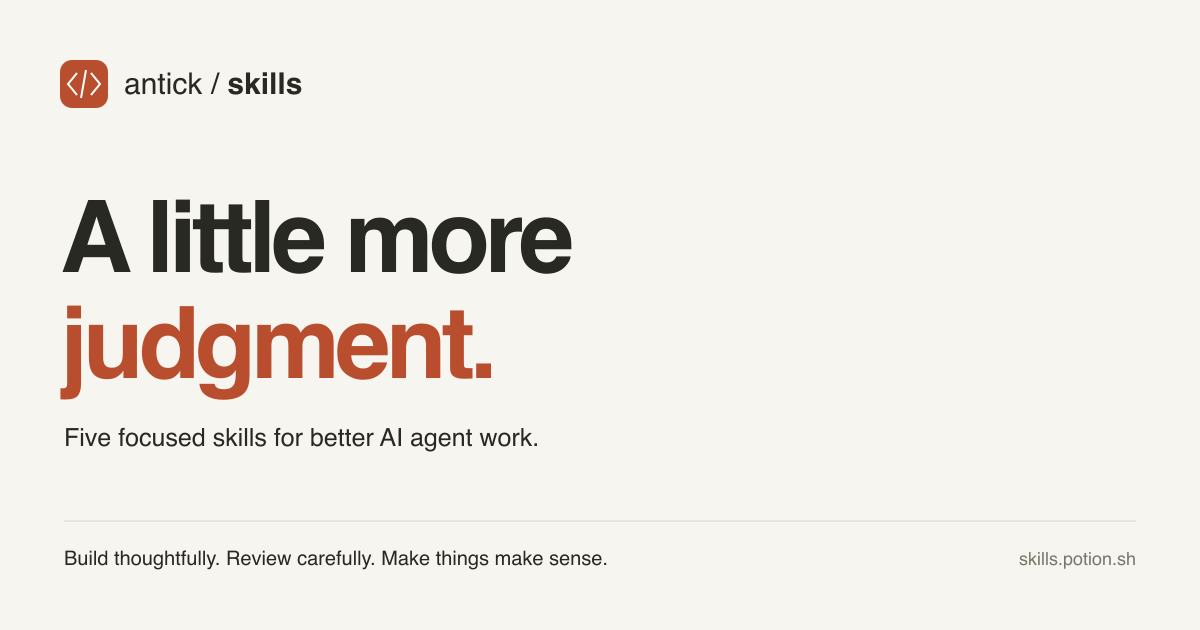
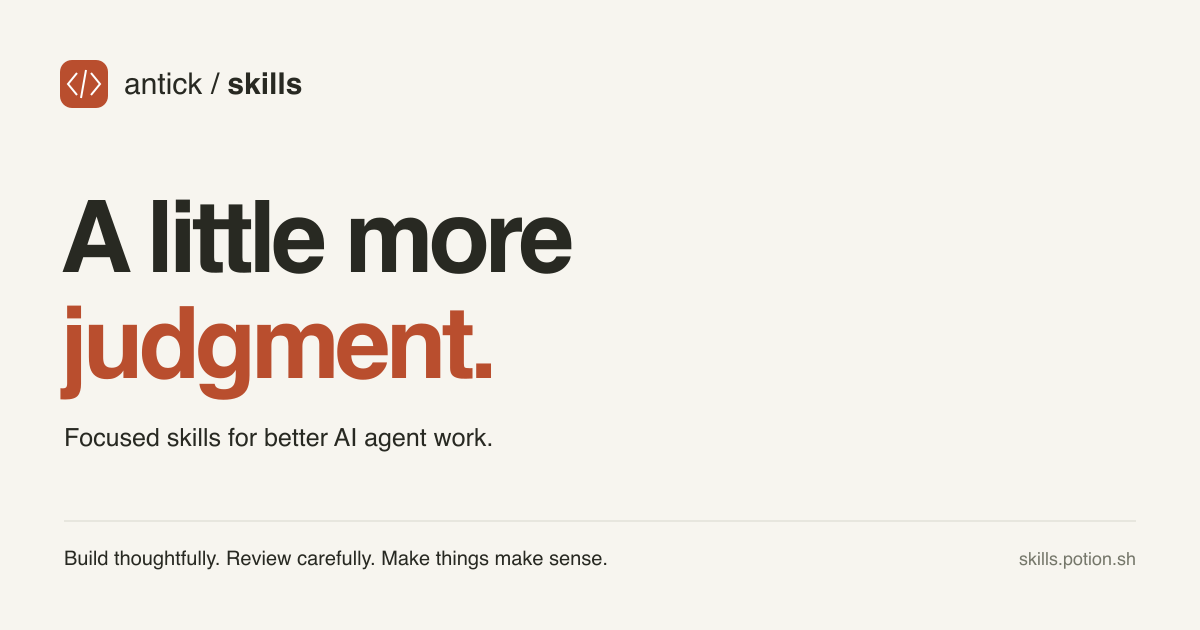
feat(skills): add dependency upgrades and local commit rule

Changed region(s): [[0.0617, 0.6635, 0.4317, 0.7238]]

diff --git a/test/install-safety.test.js b/test/install-safety.test.js
@@ -6,7 +6,7 @@ import os from "node:os";
 import path from "node:path";
 import test from "node:test";
 import { fileURLToPath } from "node:url";
-import { installSelection, parseArgs } from "../scripts/install.mjs";
+import { installSelection, loadCatalog, parseArgs } from "../scripts/install.mjs";
 
 const root = path.resolve(path.dirname(fileURLToPath(import.meta.url)), "..");
 const installer = path.join(root, "scripts/install.mjs");
@@ -180,7 +180,9 @@ test("packed executable works through a symlink for listing and installing", asy
   await fs.symlink(path.join(temporary, "package/scripts/install.mjs"), binary);
   const listed = spawnSync(binary, ["--list"], { cwd: temporary, encoding: "utf8" });
   assert.equal(listed.status, 0, listed.stderr);
-  assert.match(listed.stdout, /Found .*5/);
+  const catalog = await loadCatalog(root);
+  const plain = listed.stdout.replace(/\x1b\[[0-9;]*m/g, "");
+  assert.match(plain, new RegExp(`Found ${catalog.skills.length} skills`));
   const project = path.join(temporary, "fresh-project");
   const installed = spawnSync(binary, ["--skill", "code-build", "--agent", "codex", "--cwd", project, "--copy", "--yes"], {
     cwd: temporary, encoding: "utf8",

diff --git a/website/src/lib/catalog.ts b/website/src/lib/catalog.ts
@@ -27,6 +27,14 @@ const details = {
     steps: ["Inspect the architecture and actual consumers", "Find duplication and unnecessary layers", "Rank concrete simplifications by their value"],
     mode: "Reports without changing files",
   },
+  "upgrade-dependencies": {
+    category: "Keep your project current",
+    heading: "Update the packages.\nKeep things working.",
+    description: "Upgrade to stable releases at least 48 hours old, apply required code and configuration migrations, and check that the project still works. Clear evidence of what passed and what needs more checking.",
+    prompt: "$upgrade-dependencies Update dependencies, apply required migrations, and verify the project still works.",
+    steps: ["Check release age and package compatibility", "Upgrade together and apply required migrations", "Run tests, build, and verify affected behavior"],
+    mode: "Implementation",
+  },
   concise: {
     category: "Every word earns its place",
     heading: "Get to the point.\nKeep the meaning.",

diff --git a/website/src/components/SkillExplorer.tsx b/website/src/components/SkillExplorer.tsx
@@ -1,9 +1,9 @@
-import { ArrowDownRight, ArrowUpRight, Check, Code2, ScanLine, Scissors, MessageCircle, AlignLeft } from "lucide-react";
+import { ArrowDownRight, ArrowUpRight, Check, Code2, ScanLine, Scissors, MessageCircle, AlignLeft, RefreshCw } from "lucide-react";
 import { Tabs, TabsContent, TabsList, TabsTrigger } from "./ui/tabs";
 import { CopyButton } from "./CopyButton";
 import { skills } from "@/lib/catalog";
 
-const icons = { "code-review": ScanLine, "code-build": Code2, "code-audit": Scissors, concise: AlignLeft, "make-sense": MessageCircle };
+const icons = { "code-review": ScanLine, "code-build": Code2, "code-audit": Scissors, concise: AlignLeft, "make-sense": MessageCircle, "upgrade-dependencies": RefreshCw };
 
 export default function SkillExplorer() {
   return (

diff --git a/website/src/lib/site.ts b/website/src/lib/site.ts
@@ -2,7 +2,7 @@ export const site = {
   name: "Antick Skills",
   url: "https://skills.potion.sh",
   repository: "https://github.com/antick/skills",
-  description: "Five focused skills for AI agents. Build thoughtfully, review carefully, and make things make sense.",
+  description: "Focused skills for AI agents. Build thoughtfully, review carefully, upgrade dependencies, and make things make sense.",
   cloneCommand: "git clone https://github.com/antick/skills.git\ncd skills",
 };
 

diff --git a/skills/upgrade-dependencies/SKILL.md b/skills/upgrade-dependencies/SKILL.md
@@ -1,0 +1,200 @@
+---
+name: upgrade-dependencies
+description: Upgrade package.json dependencies to the latest eligible stable versions, handle breaking changes and migrations, and verify that the project still works. Use when the user asks to update, upgrade, or modernize dependencies in a JavaScript or TypeScript project.
+---
+
+# Upgrade Dependencies
+
+Upgrade the project's dependencies, make any required code or configuration changes,
+and verify the result. Preserve the project's existing features and behavior unless
+the user explicitly requests a change.
+
+Do not claim that an upgrade cannot break anything. Explain what was verified and
+any remaining gaps.
+
+## 1. Understand the project
+
+Before making changes:
+
+- Read the repository's agent instructions and relevant documentation.
+- Check Git status and preserve existing user changes.
+- Identify the package manager from the repository configuration and lockfile.
+- Inspect all package.json files, including workspace packages.
+- Identify the application's runtime requirements, framework, build tools, scripts,
+  tests, and CI checks.
+- Look for overrides, resolutions, patches, and dependencies that must stay
+  compatible with each other.
+
+Use the project's existing package manager. Do not switch package managers or create
+a second type of lockfile.
+
+Unless the user specifies a narrower scope, include dependencies, devDependencies,
+and optionalDependencies across the project.
+
+For reusable libraries, preserve appropriate peerDependencies compatibility ranges.
+Do not blindly replace peer ranges with exact versions.
+
+## 2. Establish a baseline
+
+Run the available tests and the relevant build, type-check, and lint commands before
+upgrading.
+
+Record existing failures so they can be distinguished from problems introduced by
+the upgrade.
+
+If the baseline fails, investigate enough to understand the failure. Continue
+independent upgrade work when possible, but do not present the final result as
+fully verified while relevant failures remain unresolved.
+
+Never overwrite or discard unrelated changes to obtain a clean baseline.
+
+## 3. Select target versions
+
+Check the live package registry for release versions and publication times. Do not
+rely on remembered versions.
+
+For each dependency:
+
+- Select the latest stable version that has been published for at least 48 hours
+  at the time of the check.
+- If the newest stable release is younger than 48 hours, select the newest eligible
+  stable release and report the skipped release.
+- Exclude prerelease, nightly, canary, alpha, beta, and release-candidate versions
+  unless the project intentionally uses that release channel.
+- Check supported runtime versions, peer dependencies, and compatibility with
+  related packages.
+- Read official release notes and migration guides for breaking changes, required
+  migrations, or important behavior changes.
+
+Use exact versions for registry dependencies being upgraded. Do not use caret,
+tilde, wildcard, or "latest" specifications.
+
+Preserve workspace references, local paths, Git references, and package aliases
+according to their existing purpose. Check whether aliased registry packages need
+an eligible exact version.
+
+Do not choose an older version merely to avoid migration work. Investigate whether
+the required migration can be completed within the project.
+
+If the latest eligible version cannot be used, explain the concrete blocker and
+the version retained or selected.
+
+## 4. Plan compatible upgrades
+
+Group packages that need to move together, such as:
+
+- A framework and its official plugins.
+- A library and its types package.
+- A test runner and its adapters.
+- A build tool and its plugins.
+- An ORM and its migration tools.
+
+Upgrade in manageable groups so failures can be traced to their cause.
+
+Identify required changes before installing, including:
+
+- Removed or renamed APIs.
+- Changed defaults or behavior.
+- Configuration and script changes.
+- Runtime or compiler requirements.
+- Database or stored-data migrations.
+- Build, test, and CI changes.
+
+Proceed with the work authorized by the user's upgrade request. Ask for clarification
+only when a required decision materially changes product behavior, scope, or a
+destructive operation.
+
+## 5. Upgrade and migrate
+
+Update the manifests and regenerate the existing lockfile using the project's
+package manager.
+
+Keep unrelated manifest fields and scripts intact unless the upgrade requires
+a change.
+
+Do not:
+
+- Delete the lockfile as a routine upgrade technique.
+- Use force or legacy-peer-deps to hide compatibility problems.
+- Disable checks, weaken types, or skip tests to make the upgrade pass.
+- Add unexplained overrides or resolutions.
+- Perform unrelated refactoring.
+- Run unreviewed remote migration scripts.
+
+Resolve dependency conflicts by fixing the underlying compatibility issue.
+
+Apply necessary migrations to code, configuration, scripts, tests, and
+documentation. Inspect official codemod changes before accepting them.
+
+Preserve existing user-visible behavior, stored data, and public contracts.
+
+Follow repository conventions:
+
+- Reuse existing components, utilities, and configuration.
+- Put shared constants and formatting in appropriate common files.
+- Keep code files within the repository's size limits.
+- Update openapi.json if an API endpoint or contract changes.
+
+Prepare and verify database or stored-data migrations in a safe local or test
+environment. Do not apply production migrations, deploy, publish, or push unless
+explicitly authorized.
+
+## 6. Verify the result
+
+After upgrading:
+
+- Confirm installation succeeds with the updated lockfile.
+- Use the package manager's frozen or immutable install mode to check that the
+  manifests and lockfile agree.
+- Inspect the resolved dependency tree for peer conflicts, invalid packages, and
+  unexpected duplicate versions.
+- Run all available tests and the relevant type-check, lint, and production build
+  commands.
+- Run required repository-specific checks.
+- For publishable packages, verify package contents with the appropriate pack or
+  dry-run command.
+- Check relevant security advisories and report unresolved findings.
+
+Exercise the application behavior affected by the upgrades.
+
+For UI or framework upgrades, start the application and verify affected flows in a
+real browser when available. For backend upgrades, exercise affected API, database,
+and integration paths in a safe environment.
+
+Add or update focused regression tests when migrations change meaningful behavior
+or reveal a coverage gap. Do not add superficial tests that only repeat the
+implementation.
+
+Fix regressions introduced by the upgrade and rerun the affected checks.
+
+Passing tests does not prove untested behavior. Clearly identify unavailable browser
+checks, integrations, credentials, devices, or environments.
+
+## 7. Review the final changes
+
+Inspect the complete diff for:
+
+- Unrelated edits or accidental formatting churn.
+- Unexpected package removals or lockfile changes.
+- Missing migrations or documentation.
+- Disabled checks or weakened assertions.
+- Accidental secrets or generated artifacts.
+
+Confirm that every dependency in scope has an explicit outcome: upgraded, already
+current, skipped because of release age, or blocked with a concrete explanation.
+
+Do not describe the task as complete if required migration work or upgrade-caused
+failures remain unresolved.
+
+## 8. Report the outcome
+
+Give a concise summary covering:
+
+- Dependencies upgraded and significant version changes.
+- Required code, configuration, or data migrations completed.
+- Verification performed and its results.
+- Existing failures and remaining verification gaps.
+- Dependencies retained or blocked, with reasons.
+- Whether any latest releases were skipped because they were less than 48 hours old.
+
+Link a detailed report if the dependency list is large.

diff --git a/README.md b/README.md
@@ -1,7 +1,8 @@
 # Antick Skills
 
-Five portable AI agent skills for reviewing code, building with the project's
-existing stack, simplifying a codebase, and communicating clearly.
+Six portable AI agent skills for reviewing code, building with the project's
+existing stack, simplifying a codebase, upgrading dependencies, and communicating
+clearly.
 
 [Explore the website](https://skills.potion.sh) · [Get started](#install-from-a-checkout)
 
@@ -17,6 +18,7 @@ for Codex and Claude Code.
 | [code-review](skills/code-review/SKILL.md) | Review local changes or a pull request against its requirements and report confirmed problems. Read-only by default. |
 | [code-build](skills/code-build/SKILL.md) | Build a feature, fix a bug, or start an app using the simplest suitable solution for the actual stack. |
 | [code-audit](skills/code-audit/SKILL.md) | Find and rank unnecessary complexity across a repository, without applying changes. |
+| [upgrade-dependencies](skills/upgrade-dependencies/SKILL.md) | Upgrade package.json dependencies to stable releases at least 48 hours old, apply required migrations, and verify behavior. |
 | [concise](skills/concise/SKILL.md) | Get a brief answer that keeps the result, reason, and important caveats. |
 | [make-sense](skills/make-sense/SKILL.md) | Get a clear, natural explanation with as much detail as the subject needs. |
 
@@ -150,13 +152,14 @@ For example, in Codex:
 $code-review Review my uncommitted changes against the requested behavior.
 $code-build Add search to this Astro site using its existing conventions.
 $code-audit Find the largest safe simplifications in this repository.
+$upgrade-dependencies Update dependencies, apply required migrations, and verify the project still works.
 $concise Summarize what changed and what still needs checking.
 $make-sense Explain how this request reaches the database.
 ```
 
 Skills provide instructions to the agent. Its tools, permissions, and your
 project's instructions still determine what it can do. Review and audit skills
-report findings; `code-build` performs implementation work.
+report findings; `code-build` and `upgrade-dependencies` perform implementation work.
 
 ### Host integrations
 

diff --git a/AGENTS.md b/AGENTS.md
@@ -4,3 +4,10 @@ Treat `skills/*/SKILL.md` as the canonical skill set. Keep `packs.json`, `SKILLS
 the host plugin manifests, and `pi-extension/commands.json` synchronized with it.
 
 Run `npm test` and `npm pack --dry-run` after catalogue changes.
+
+After completing and verifying a task that changes files, stage only the changes
+made for that task and create a local Conventional Commit with a type prefix such
+as `feat`, `fix`, or `docs`. Preserve unrelated user changes and report the commit
+hash and message in the final response.
+
+Never push commits unless the user explicitly asks you to push.

diff --git a/SKILLS.md b/SKILLS.md
@@ -1,6 +1,6 @@
 # Antick Skills
 
-5 skills. Canonical behavior lives in `skills/<name>/SKILL.md`.
+6 skills. Canonical behavior lives in `skills/<name>/SKILL.md`.
 
 | Skill | What it does |
 | --- | --- |
@@ -9,3 +9,4 @@
 | `make-sense` | Explain clearly without forcing brevity |
 | `code-build` | Build apps and features with the simplest solution for the project's stack |
 | `code-audit` | Rank repository-wide opportunities to remove complexity |
+| `upgrade-dependencies` | Upgrade dependencies, apply migrations, and verify behavior |
